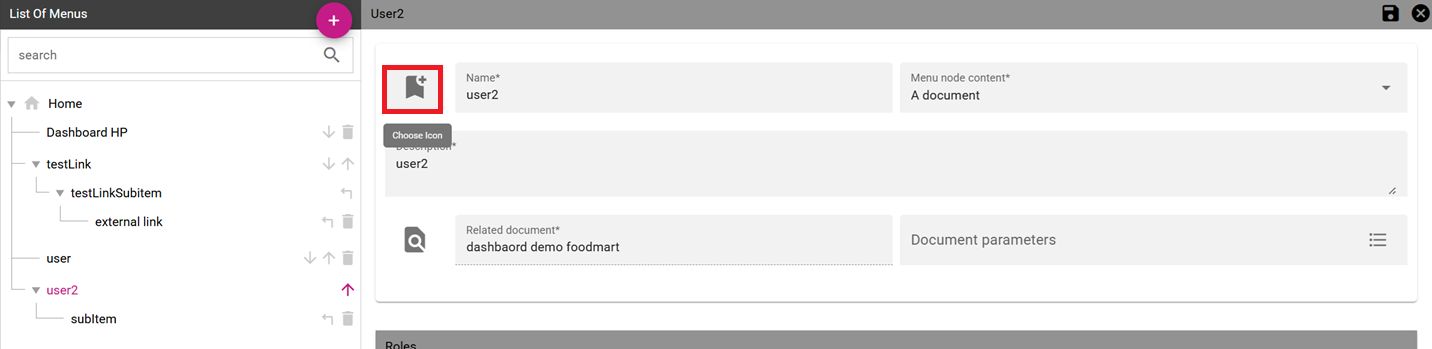
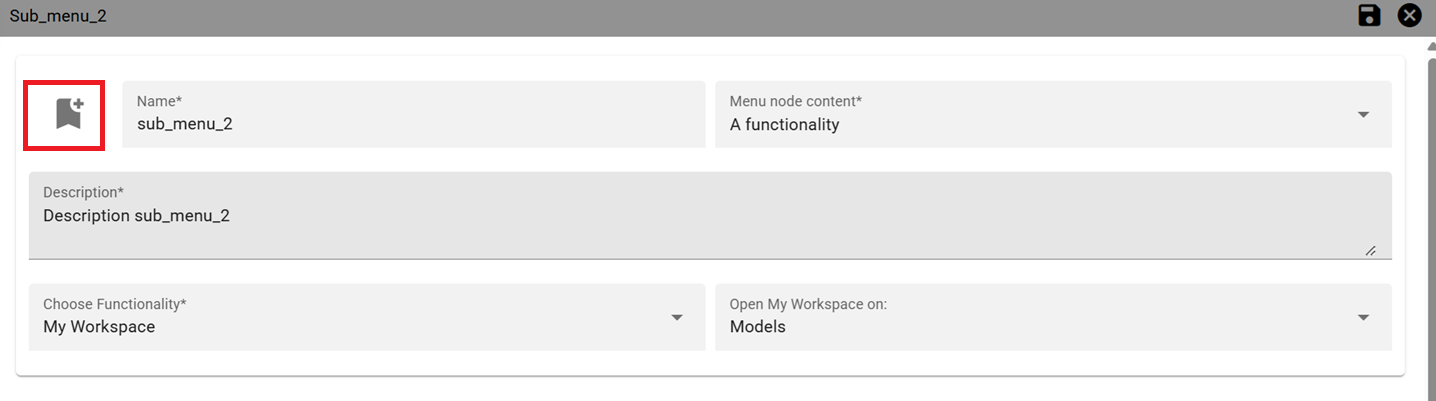
fix6669

diff --git a/chapter_3/security_management/menu.rst b/chapter_3/security_management/menu.rst
@@ -6,9 +6,9 @@ Menu configuration
 
 Knowage allows the definition of a menu for the end user. This menu will be displayed in the left bar of Knowage homepage, under the Knowage icon. It is possible to associate to each node a static page, a document, a functionality (as a folder) or nothing (empty node). Every node can be associated to different roles. This menu structure can be created and modified exclusively by the administrator in the **Tools** area. To access the Menu configuration area, go to **Profile Management** > **Menu Configuration** from the Main Menu.
 
-It's sufficient to click on the “Plus” of the Menu Configuration page to add a new folder to the **Menu Tree**. When selecting one node of the tree and clicking on the “Plus” icon, the user can add a new folder as a child of the former one.
+Just click the “Plus” of the Menu Configuration page to add a new folder to the **Menu Tree**. When selecting one node of the tree and clicking on the “Plus” icon, the user can add a new folder as a child of the former one.
 
-.. figure:: media/image35.png
+.. figure:: media/menu.png
 
    Menu tree actions.
 
@@ -33,28 +33,10 @@ Creating a menu, you can choose an icon to be shown in the main menu. **This fea
 
    Menu choose icon feature
 
-To associate an icon to the menu, select the name of your menu and click the *CHOOSE ICON* functionality and you can:
+To associate an icon to the menu, select the name of your menu and click the icon highlighted in red.
 
 -  pick an icon from the predefined icons included in Knowage;
 -  upload a new file containing a custom icon (*File types allowed are .ico, .svg, .png and the maximum size allowed is 50 KB*).
-
-Dialog shown in figure below allows you to select an icon or click on "Browse..." to choose the image on your pc and upload it. After choose is completed, click on "*CHOOSE*" button to apply the changes. If no errors occurred, you'll come back to menu configuration and see the icon you choose. If you want to filter predefined icons, you can start writing in the text field on the top of the dialog.
-
-.. figure:: media/image107.png
-
-   Menu choose icon dialog
-
-If you decide to choose a predefined icon, select it click on "CHOOSE" to apply the changes.
-
-.. figure:: media/image108.png
-
-   Menu choose selected icon
-
-If you decide to upload a new image, click on "*Browse...*" and select your file. After that, the icon will be displayed as in the image below.
-
-.. figure:: media/image109.png
-
-   Selecting a new file as icon
 
 In case you need to delete an icon, the image below shows how to do it.
 
